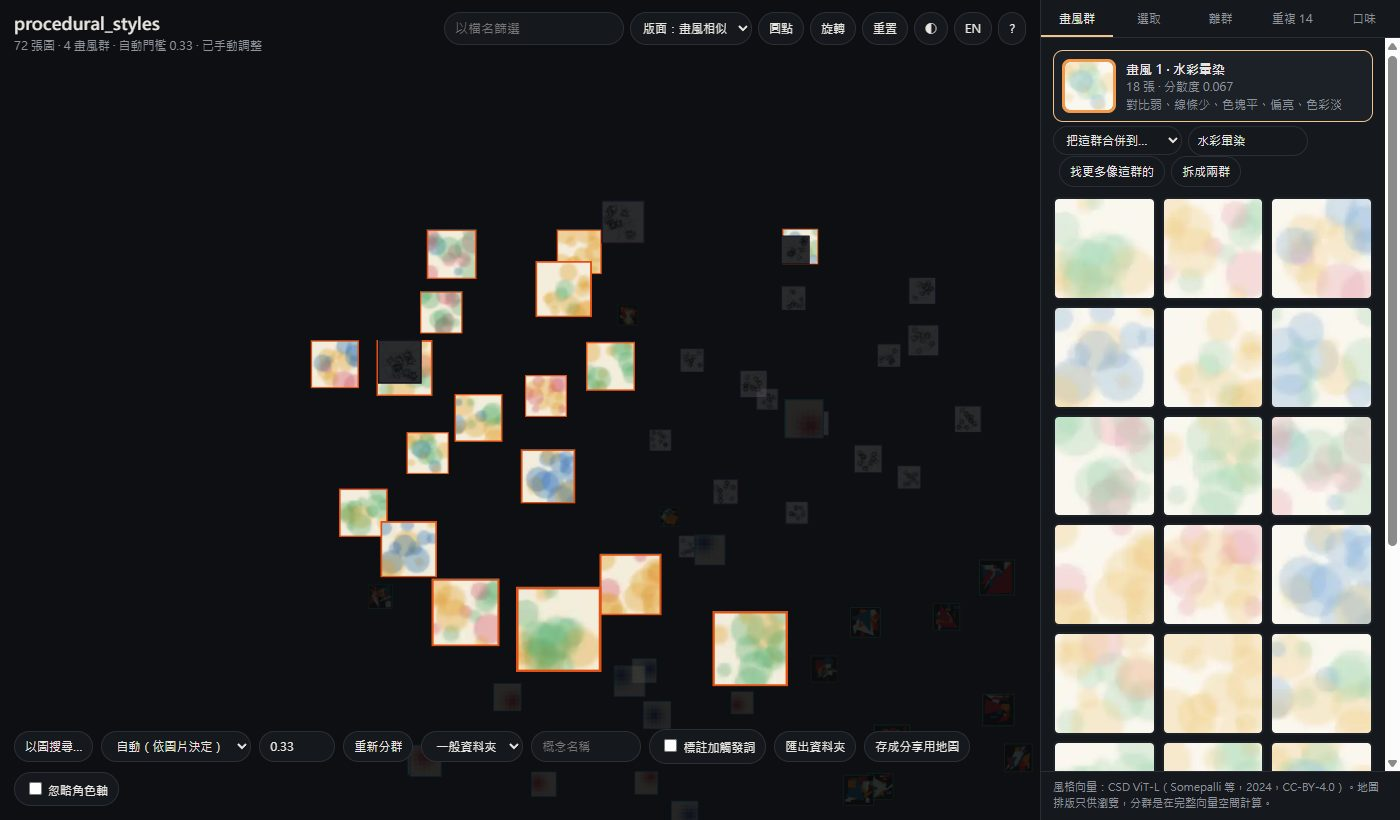
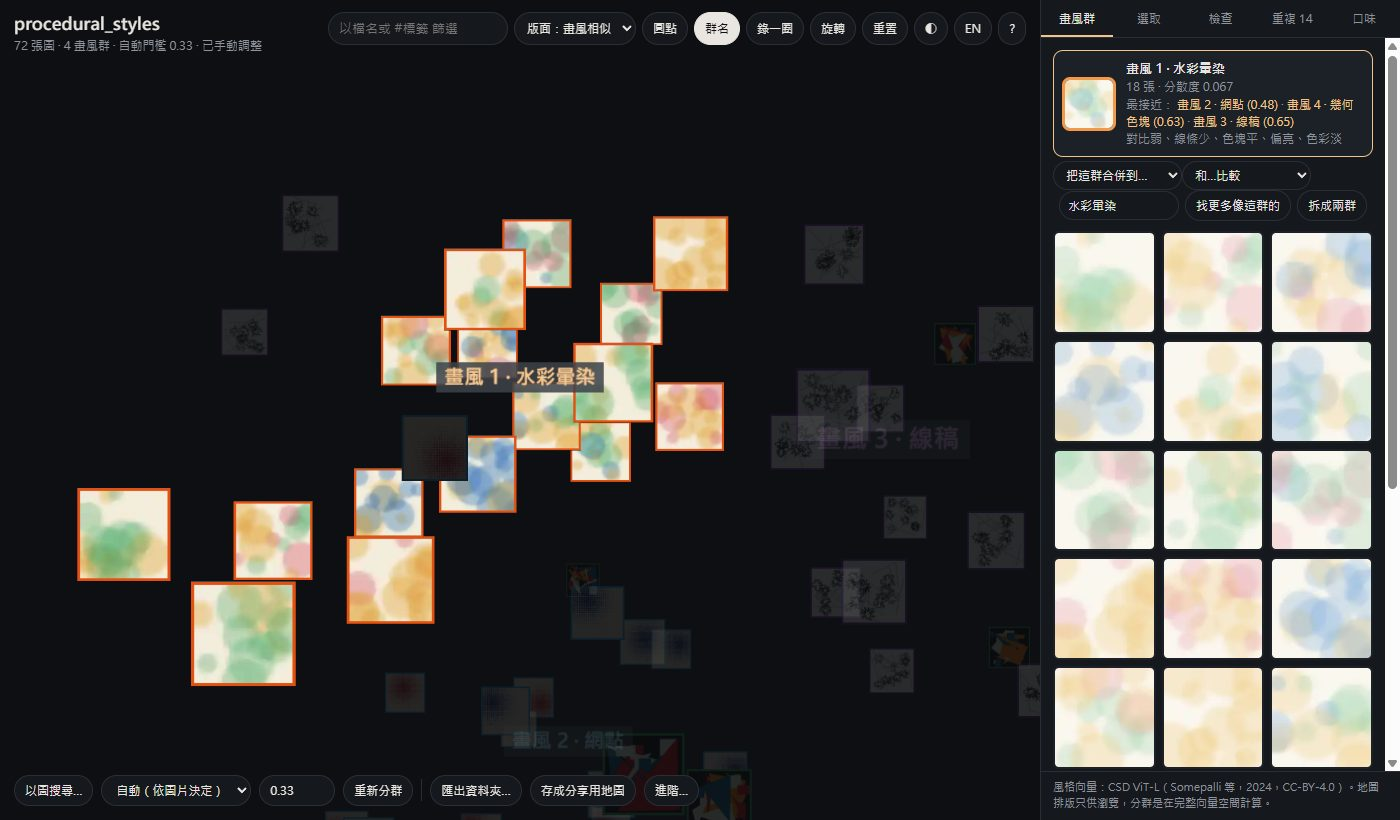
feat(ui): a calmer bottom bar (export and advanced options in panels), Select these in Check, clearer labels; new screenshots

diff --git a/src/styleatlas/templates/map_i18n.js b/src/styleatlas/templates/map_i18n.js
@@ -26,13 +26,16 @@ const T = {
     exclude: "Exclude from export (X)", included: "Excluded - undo (X)",
     excludedList: "Excluded by you ({n}) - exported to _excluded",
     compareWith: "Compare with…", compareTitle: "{a} compared with {b}",
+    selectThese: "Select these", tipTheme: "Dark or light",
+    exportOpen: "Export folders…", exportGo: "Export now", exportTitle: "Export:",
+    moreOpen: "More…", tipMore: "Ignore the character axis, and a reference folder for the originality axis",
     stripTags: "remove tags", tipStrip: "Optional: caption tags to leave out of the exported copies, comma-separated (e.g. sketch, monochrome). Your own captions are never changed.",
     fitLine: "{k} of {n} dropped images fall inside a style group of this folder",
     fitYes: "mostly this folder's style", fitSome: "partly", fitNo: "mostly unlike this folder",
     fitOne: "inside its range", fitNotOne: "outside its range",
     fitNote: "Inside = as close to the group as 90% of its own images. One artist's held-out works landed inside 69% of the time, other artists' 15%: read the share, not single images.",
     findLive: "filter by name, or #tag", tagHits: "{n} images have a caption tag with \"{t}\".",
-    marked: "{n} selected", markExclude: "Exclude all", markInclude: "Un-exclude all", markClear: "Clear",
+    marked: "{n} selected", markExclude: "Exclude these {n}", markInclude: "Restore these {n}", markClear: "Clear",
     markExcluded: "Excluded {n}.", markIncluded: "Un-excluded {n}.",
     shiftKeys: "Shift + click / drag", keyMark: "select several images, then exclude or move them at once",
     maxPerGroup: "max per style", trimmedNote: "{n} beyond the cap went to _trimmed.",
@@ -113,16 +116,19 @@ const T = {
     exclude: "匯出時排除 (X)", included: "已排除，取消 (X)",
     excludedList: "你排除的圖（{n}）：匯出時放到 _excluded",
     compareWith: "和…比較", compareTitle: "{a} 和 {b} 比較",
-    stripTags: "移除標籤", tipStrip: "選填：匯出的標註裡要拿掉的標籤，用逗號分隔（例如 sketch, monochrome）。原本的標註不會被改。",
+    selectThese: "選取這些", tipTheme: "深色／淺色",
+    exportOpen: "匯出資料夾…", exportGo: "開始匯出", exportTitle: "匯出：",
+    moreOpen: "進階…", tipMore: "忽略角色軸，以及原創度用的參考資料夾",
+    stripTags: "要移除的標籤", tipStrip: "選填：匯出的標註裡要拿掉的標籤，用逗號分隔（例如 sketch, monochrome）。原本的標註不會被改。",
     fitLine: "拖進來的 {n} 張裡，有 {k} 張落在這個資料夾某一群的範圍內",
     fitYes: "大致是這個資料夾的畫風", fitSome: "部分像", fitNo: "大多不像這個資料夾",
     fitOne: "在範圍內", fitNotOne: "在範圍外",
     fitNote: "「範圍內」＝和那群中心的距離，不超過那群 90% 成員的距離。實測同一畫師沒用到的作品有 69% 落在範圍內，其他畫師只有 15%；請看整批的比例，單張不準。",
     findLive: "以檔名或 #標籤 篩選", tagHits: "{n} 張圖的標註裡有含「{t}」的標籤。",
-    marked: "已選 {n} 張", markExclude: "全部排除", markInclude: "全部取消排除", markClear: "清除選取",
+    marked: "已選 {n} 張", markExclude: "排除這 {n} 張", markInclude: "恢復這 {n} 張", markClear: "清除選取",
     markExcluded: "已排除 {n} 張。", markIncluded: "已取消排除 {n} 張。",
     shiftKeys: "Shift + 點／拖曳", keyMark: "選多張圖，再一次排除或移到別群",
-    maxPerGroup: "每群上限", trimmedNote: "超過上限的 {n} 張放到 _trimmed。",
+    maxPerGroup: "每群最多幾張", trimmedNote: "超過上限的 {n} 張放到 _trimmed。",
     tipMax: "選填：每群最多保留幾張，會挑能涵蓋整群的（LoRA 常用 15～50 張）；其餘放到 _trimmed",
     nearGroups: "最接近：", nearTip: "打開那一群（數字是兩群中心的畫風距離）",
     manyGroups: "分出很多小群。如果這是同一位畫師的資料夾，可以把左下的分群選單改成「中」或「時期」，再按重新分群。",
@@ -168,7 +174,7 @@ const T = {
     neutral: "忽略角色軸", neutralBusy: "重新計算中…",
     oneGroup: "所有圖都在同一群：把左下的分群選單改成「細」或「時期（單一畫師）」，再按重新分群。",
     undo: "復原", plainFolders: "一般資料夾",
-    smallGroups: "有 {n} 個群不足 3 張，已放進未分群。", conceptName: "概念名稱", triggerCaptions: "標註加觸發詞",
+    smallGroups: "有 {n} 個群不足 3 張，已放進未分群。", conceptName: "LoRA 名稱（資料夾名）", triggerCaptions: "標註加觸發詞",
     nameGroup: "取名（Enter）", restored: "已還原上次的分群、手動調整與名稱（按重新分群可重來）。",
     rateNext: "評下一張最有用的圖", ratingHint: "評分模式：按 L 或 D，自動跳下一張（Esc 結束）",
     allRated: "全部都評過了。",

diff --git a/src/styleatlas/templates/map_app.js b/src/styleatlas/templates/map_app.js
@@ -144,9 +144,11 @@ function showMarks() {
   const items = () => [...MARKED];
   const button = (key, fn) => { const b = document.createElement("button"); b.textContent = t(key); b.addEventListener("click", fn); return b; };
   const count = document.createElement("span"); count.textContent = t("marked").replace("{n}", MARKED.size);
-  bar.replaceChildren(count,
-    button("markExclude", () => batchExclude(items(), true)),
-    button("markInclude", () => batchExclude(items(), false)),
+  const ex = button("markExclude", () => batchExclude(items(), true));
+  const inc = button("markInclude", () => batchExclude(items(), false));
+  ex.textContent = t("markExclude").replace("{n}", MARKED.size);
+  inc.textContent = t("markInclude").replace("{n}", MARKED.size);
+  bar.replaceChildren(count, ex, inc,
     groupSelect(t("moveTo"), null, true, (to) => editPost("api/move", { items: items(), to })),
     button("markClear", () => { MARKED = new Set(); showMarks(); }));
 }
@@ -369,8 +371,23 @@ function setupReference() {
   }
 }
 
+function setupPanels() {  // export options and the advanced switches open above the bar
+  const pairs = [["exportOpen", "exportPanel"], ["moreOpen", "morePanel"]];
+  pairs.forEach(([button, panel]) => {
+    $(button).addEventListener("click", () => {
+      const open = $(panel).hidden;
+      pairs.forEach(([b, p]) => { $(p).hidden = true; $(b).classList.remove("on"); });
+      $(panel).hidden = !open; $(button).classList.toggle("on", open);
+    });
+  });
+  if ((DATA.live.space || "plain") !== "plain" || DATA.reference) {  // a switch is on: show it
+    $("morePanel").hidden = false; $("moreOpen").classList.add("on");
+  }
+}
+
 function setupLive() {
   setupUndo();
+  setupPanels();
   setupMarking();
   setupReference();
   $("neutral").checked = (DATA.live.space || "plain") !== "plain";
@@ -441,7 +458,9 @@ function setupLive() {
 function liveText() {
   if (!DATA.live) return;
   $("pickBtn").textContent = t("searchImg"); $("regroup").textContent = t("regroup");
-  $("export").textContent = t("export"); $("drop").textContent = t("drop");
+  $("export").textContent = t("exportGo"); $("exportOpen").textContent = t("exportOpen");
+  $("exportTitle").textContent = t("exportTitle"); $("moreOpen").textContent = t("moreOpen");
+  $("drop").textContent = t("drop");
   $("saveMap").textContent = t("saveMap");
   $("undo").textContent = t("undo");
   $("expLayout").options[0].textContent = t("plainFolders");
@@ -464,7 +483,7 @@ function liveText() {
   $("gran").value = cur && cur !== "custom" ? cur : initial;
   $("periods").title = t("periods");
   showPeriods($("gran").value === "period");
-  const tips = { expMax: "tipMax", expStrip: "tipStrip", pickBtn: "tipSearch", gran: "tipGran", thr: "tipThr", regroup: "tipRegroup", undo: "tipUndo",
+  const tips = { exportOpen: "tipExport", moreOpen: "tipMore", expMax: "tipMax", expStrip: "tipStrip", pickBtn: "tipSearch", gran: "tipGran", thr: "tipThr", regroup: "tipRegroup", undo: "tipUndo",
     expLayout: "tipLayout", expName: "tipName", expTrigWrap: "tipTrig", export: "tipExport",
     saveMap: "tipSaveMap", neutralWrap: "tipNeutral" };
   Object.entries(tips).forEach(([id, key]) => { $(id).title = t(key); });

diff --git a/src/styleatlas/templates/map.html b/src/styleatlas/templates/map.html
@@ -36,17 +36,25 @@
       <input id="periods" type="number" min="2" max="8" step="1" hidden>
       <button id="regroup"></button>
       <button id="undo" hidden></button>
-      <select id="expLayout"><option value="plain"></option><option value="kohya">kohya</option></select>
-      <input id="expName" type="text">
-      <input id="expMax" type="number" min="1" step="1">
-      <input id="expStrip" type="text">
-      <label id="expTrigWrap" class="chip"><input id="expTrig" type="checkbox"> <span></span></label>
-      <button id="export"></button>
+      <span class="sep"></span>
+      <button id="exportOpen"></button>
       <button id="saveMap"></button>
-      <label id="neutralWrap" class="chip"><input id="neutral" type="checkbox"> <span></span></label>
-      <input id="refPath" type="text">
-      <button id="refLoad"></button>
+      <button id="moreOpen"></button>
       <span id="status"></span>
+      <div id="exportPanel" class="panel" hidden>
+        <b id="exportTitle"></b>
+        <select id="expLayout"><option value="plain"></option><option value="kohya">kohya</option></select>
+        <input id="expName" type="text">
+        <input id="expMax" type="number" min="1" step="1">
+        <input id="expStrip" type="text">
+        <label id="expTrigWrap" class="chip"><input id="expTrig" type="checkbox"> <span></span></label>
+        <button id="export" class="primary"></button>
+      </div>
+      <div id="morePanel" class="panel" hidden>
+        <label id="neutralWrap" class="chip"><input id="neutral" type="checkbox"> <span></span></label>
+        <input id="refPath" type="text">
+        <button id="refLoad"></button>
+      </div>
     </div>
     <div id="drop"></div>
     <div id="tip"><img alt=""><div class="cap"></div></div>

diff --git a/src/styleatlas/templates/map.css b/src/styleatlas/templates/map.css
@@ -39,6 +39,18 @@
   #status { color: var(--muted); font-size: 12px; background: var(--panel); border-radius: 999px;
     padding: 5px 10px; border: 1px solid var(--line); }
   #status:empty { display: none; }
+  #live .panel { order: -1; flex-basis: 100%; display: flex; gap: 8px; flex-wrap: wrap;
+    align-items: center; background: color-mix(in srgb, var(--panel) 94%, transparent);
+    border: 1px solid var(--line); border-radius: 14px; padding: 8px 10px; }
+  #live .panel[hidden] { display: none; }
+  #live .panel b { font-size: 12px; color: var(--muted); font-weight: 600; margin-right: 2px; }
+  #live .sep { width: 1px; height: 22px; background: var(--line); }
+  #live .panel input[type=text] { width: 150px; }
+  #live .panel input[type=number] { width: 110px; }
+  #live button.primary { border-color: var(--accent); color: var(--accent); }
+  #exportOpen.on, #moreOpen.on { border-color: var(--accent); }
+  #title { background: color-mix(in srgb, var(--bg) 72%, transparent); border-radius: 10px;
+    padding: 4px 8px; margin: -4px 0 0 -8px; }
   #markBar { position: absolute; top: 96px; left: 50%; transform: translateX(-50%); z-index: 5;
     display: flex; gap: 6px; align-items: center; background: var(--panel); color: var(--ink);
     border: 1px solid var(--accent); border-radius: 999px; padding: 6px 10px; font-size: 12px; }

diff --git a/src/styleatlas/templates/map.js b/src/styleatlas/templates/map.js
@@ -429,8 +429,11 @@ function checkSection() {
     sub.textContent = `${t("chk_" + k).replace("{n}", CHECK.min_side)}: ${many ? t("checkAll").replace("{n}", list.length) : list.length}`;
     box.append(sub);
     if (!many) {
+      const pick = document.createElement("button"); pick.textContent = t("selectThese");
+      pick.style.cssText = "margin:2px 0 4px";
+      pick.addEventListener("click", () => { MARKED = new Set(list); showMarks(); });  // then exclude at once
       const g = document.createElement("div"); g.className = "grid"; list.slice(0, 60).forEach((i) => g.append(thumb(i)));
-      box.append(g);
+      box.append(pick, g);
     }
   });
   return box;
@@ -497,7 +500,7 @@ function applyText() {
   $("find").placeholder = t(DATA.live ? "findLive" : "find");
   $("mode").textContent = mode === "thumbs" ? t("dots") : t("thumbs");
   $("spin").textContent = t("spin"); $("home").textContent = t("home"); $("names").textContent = t("names");
-  $("mode").title = t("tipMode"); $("names").title = t("tipNames"); $("home").title = t("tipHome");
+  $("theme").title = t("tipTheme"); $("mode").title = t("tipMode"); $("names").title = t("tipNames"); $("home").title = t("tipHome");
   if (!recordingNow) $("rec").textContent = t("rec");
   $("rec").title = t("tipRec");
   $("layoutSel").title = t("tipLayoutSel");

diff --git a/src/styleatlas/templates/map_layout.js b/src/styleatlas/templates/map_layout.js
@@ -107,7 +107,7 @@ function nameSprite(full, color) {
   const cv = document.createElement("canvas"); const g = cv.getContext("2d");
   const font = "600 30px system-ui, sans-serif"; g.font = font;
   cv.width = Math.ceil(g.measureText(text).width) + 24; cv.height = 46;
-  g.font = font; g.fillStyle = "rgba(12,14,18,0.72)"; g.fillRect(0, 0, cv.width, cv.height);
+  g.font = font; g.fillStyle = "rgba(12,14,18,0.86)"; g.fillRect(0, 0, cv.width, cv.height);
   g.fillStyle = color; g.fillText(text, 12, 33);
   const sp = new THREE.Sprite(new THREE.SpriteMaterial({ map: new THREE.CanvasTexture(cv), depthTest: false, transparent: true }));
   const h = 0.11; sp.scale.set(h * cv.width / cv.height, h, 1); sp.renderOrder = 10;

diff --git a/README.md b/README.md
@@ -105,12 +105,12 @@ dataset_config.toml   ← kohya sd-scripts 的資料集設定（`--dataset_confi
 ```
 
 - 每群的 repeats 會讓「張數 × repeats」接近 100。也可以用 `--repeats 10` 固定。
-- 某群圖太多時，加 `--max-per-group 40`（網頁：匯出列的「每群上限」）只保留 40 張，會挑能涵蓋整群變化的那些（從最典型的一張開始，每次挑和已選的最不像的一張），其餘放到 `_trimmed\`。repeats 會依保留的張數重算。
+- 某群圖太多時，加 `--max-per-group 40`（網頁：「匯出資料夾…」裡的「每群最多幾張」）只保留 40 張，會挑能涵蓋整群變化的那些（從最典型的一張開始，每次挑和已選的最不像的一張），其餘放到 `_trimmed\`。repeats 會依保留的張數重算。
 - 想在同一個 LoRA 裡用不同觸發詞叫出不同畫風，可以加 `--trigger-captions`：
   - 匯出的標註開頭會自動加上該群名稱，例如 `artistX_style01, `；
   - 原始標註不會被改。
   - 完整流程見 [docs/LORA_GUIDE.md](docs/LORA_GUIDE.md)。
-- 想把描述畫風本身的標籤（例如 `sketch`、`monochrome`）從匯出的標註拿掉，讓觸發詞去學這個畫風：加 `--strip-tags "sketch, monochrome"`（網頁：匯出列的「移除標籤」）。只比對完整標籤，原本的標註不會被改。
+- 想把描述畫風本身的標籤（例如 `sketch`、`monochrome`）從匯出的標註拿掉，讓觸發詞去學這個畫風：加 `--strip-tags "sketch, monochrome"`（網頁：「匯出資料夾…」裡的「要移除的標籤」）。只比對完整標籤，原本的標註不會被改。
 
   ```bat
   style-atlas cluster "D:\lora\artistX" --layout kohya --name artistX --dedupe --drop-outliers 5 --export copy --trigger-captions
@@ -166,7 +166,7 @@ style-atlas taste train --like "D:\喜歡的圖" --dislike "D:\不喜歡的圖" 
 style-atlas taste score "D:\new_batch" --model "D:\my_taste.npz"
 ```
 
-**同樣的角色出現在很多種畫風裡**時（例如用固定角色測試不同畫師組合），請加 `--ignore-characters`，或在網頁介面勾選「忽略角色軸」。畫風特徵會被角色外觀（髮色、服裝）強烈拉走，不修正時，最接近的圖常常是「同角色、別的畫風」。
+**同樣的角色出現在很多種畫風裡**時（例如用固定角色測試不同畫師組合），請加 `--ignore-characters`，或在網頁介面的「進階…」勾選「忽略角色軸」。畫風特徵會被角色外觀（髮色、服裝）強烈拉走，不修正時，最接近的圖常常是「同角色、別的畫風」。
 - 它會自動從圖裡找出角色（不需要標註），再拿掉角色造成的差異。角色越多越有用：4 個角色時，以圖找圖找對畫風的比例是 70%，舊方法 `--neutralize 1` 是 58%。
 - 這主要改善**以圖找圖**。同一個模型、固定角色的算圖，畫風差異通常很小，自動分群多半只會得到一群；這類資料夾請以「以圖找圖」為主，或用 `--k` 直接指定群數。
 - **混了不同畫師時不要開**：那時角色差異和畫風差異分不開，分群會壞掉。
@@ -184,7 +184,7 @@ style-atlas taste score "D:\new_batch" --model "D:\my_taste.npz"
 - 「檢查」分頁：按「開始檢查」會列出太小的圖、極端長寬比、混在彩色圖裡的黑白圖、沒有標註或標註是空的圖、動圖（和 `audit` 指令相同，不用打指令）；下面是最不合群的圖。「重複」分頁列出近重複圖組。
 - 右上角可以把「版面」從「畫風相似」切到「量化軸」。切換後，三個軸可以各自選一種指標，縮圖會移動到對應位置。可選的指標有：
   - 口味分數：用網頁介面評過分之後才有。
-  - 離參考集距離（原創度）：要先指定已知畫風的資料夾（例如畫師作品或論壇配方）。在網頁左下第二排填路徑、按「載入參考」即可（第一次會嵌入裡面的圖），或啟動時加 `--reference 資料夾`。
+  - 離參考集距離（原創度）：要先指定已知畫風的資料夾（例如畫師作品或論壇配方）。在網頁的「進階…」填路徑、按「載入參考」即可（第一次會嵌入裡面的圖），或啟動時加 `--reference 資料夾`。
   - 時間。
   - 離群度。
   - 外觀量測：亮度、對比、鮮豔度、冷暖、線條量、平塗度（見下一節）。例如 X 選冷暖、Y 選線條量、Z 選鮮豔度，就能看到整個資料夾在這三個面向上怎麼分布。
@@ -196,7 +196,7 @@ style-atlas taste score "D:\new_batch" --model "D:\my_taste.npz"
   - 拖一張圖進畫面就能以圖搜尋。一次拖多張同一種畫風的圖，會當成同一種畫風一起搜尋（3 張以上時用它們訓練的小模型排序）。
   - 一次拖多張時，還會告訴你這批圖有幾張「落在這個資料夾某一群的範圍內」，例如拿 LoRA 算出來的圖檢查像不像訓練集，或新找到的圖該不該加進來。請看整批的比例：實測同一畫師沒用到的作品有 69% 落在範圍內，其他畫師只有 15%。
   - 畫風漸變：選一張圖按「畫風漸變：從這張開始」，再選另一張按「畫風漸變：到這張」，會列出在畫風上從前一張漸變到後一張的一串圖。適合找兩種畫風之間的過渡風格。
-  - 調門檻後重新分群、一鍵匯出資料夾。匯出時可以選一般資料夾或 kohya 格式、填概念名稱、勾選「標註加觸發詞」。
+  - 調門檻後重新分群。按「匯出資料夾…」會在下方打開匯出選項：一般資料夾或 kohya 格式、LoRA 名稱、每群最多幾張、要移除的標籤、「標註加觸發詞」，再按「開始匯出」。「忽略角色軸」和參考資料夾放在「進階…」裡。
   - 按「匯出時排除」（鍵盤 X）手動剔除不要的圖，清單會存檔，匯出時放到 `_excluded\`。
   - 一次處理很多張：按住 Shift 點圖（地圖或清單裡都可以），或按住 Shift 在地圖上拖一個框，選好後用上方的「全部排除」或「移到其他群…」一次完成；移動算一步，可以復原。Esc 清除選取。
   - 資料夾裡混了別的畫師的圖時：先把看到的兩三張按 X 排除，再到「檢查」分頁的排除清單按「找更多像這些的」，其餘的通常都會排在最前面（實測：3 張當範例時，前 30 名找回 98%）。
@@ -399,7 +399,7 @@ The output goes to `DIR_style_atlas/folders/`, next to the dataset and never ins
   folder and its repeats; set the resolution and batch size for your model.
 - `_duplicates/`, `_outliers/`, `_unassigned/` and `_excluded/` (images you excluded with X in
   the web app). Kohya skips these because they lack a number prefix.
-- With `--max-per-group N` (web: "max per style"), a larger style keeps N images that cover
+- With `--max-per-group N` (web: "Export folders…", "max per style"), a larger style keeps N images that cover
   it (farthest-point sampling from its most central image); the rest go to `_trimmed/`, and
   repeats follow the kept count.
 - `clusters.json`, which lists each group's characteristic caption tags.
@@ -442,7 +442,7 @@ Common options:
   originality measure, the distance from each image to its closest reference. The map's
   "measures" layout can then put taste, originality, time and atypicality on the X / Y / Z axes,
   along with the six look measures (see "Look measures" below). In the web app the reference
-  folder can also be loaded (or cleared) from the box at the bottom left.
+  folder can also be loaded (or cleared) under "More…" at the bottom.
 - `--ignore-characters` (cluster, map, serve, search): use it when the same characters appear in
   many styles. It finds the characters from the CSD content vectors (no labels needed) and moves
   each character's style vectors to a shared centre. On 16 Anima recipes x 4 characters,

diff --git a/docs/LORA_GUIDE.md b/docs/LORA_GUIDE.md
@@ -79,7 +79,7 @@ style-atlas cluster "D:\lora\artistX" --layout kohya --name artistX --dedupe --d
 ## 5. 要知道的限制
 
 - 2～5 位畫師混在一起時，分群和畫師的吻合度約 ARI 0.5；畫師越多越低（50 位時約 0.38）。同一畫師拆時期時，「時期」（分 3 段）和發表時間的吻合度明顯比預設的自動門檻好，但整體仍偏弱（13 位測試畫師的平均 AMI 約 0.12）；作品少時分段結果不太穩定。所以分群是**初步整理**，請在地圖上確認。
-- 同一個角色出現在很多畫風時，畫風向量會被角色外觀拉走。遇到這種收藏可以加 `--ignore-characters`（或在網頁勾選「忽略角色軸」）；但不要用在混了不同畫師的資料夾。
+- 同一個角色出現在很多畫風時，畫風向量會被角色外觀拉走。遇到這種收藏可以加 `--ignore-characters`（或在網頁「進階…」勾選「忽略角色軸」）；但不要用在混了不同畫師的資料夾。
 - 近重複門檻刻意設得保守（0.95）。在 0.92～0.95 之間，常常是同角色換了姿勢的不同圖，對訓練來說那是有效的圖。
 
 詳細數字見 [BENCHMARKS.md](BENCHMARKS.md)。

diff --git a/CHANGELOG.md b/CHANGELOG.md
@@ -1,5 +1,16 @@
 # Changelog
 
+## Unreleased
+
+- **A calmer bottom bar** (a Sonnet review of screenshots at 1366x768): one row with search,
+  grouping, "Export folders…", "Save shareable map" and "More…". The export options open in a
+  panel above it, ending in "Export now"; the character-axis switch and the reference folder
+  are under "More…" (shown open when one of them is on).
+- Each finding in the Check tab has "Select these", so the images can be excluded or moved at
+  once; the selection bar now says "Exclude these N" / "Restore these N".
+- Clearer export labels ("LoRA name (folder name)", "max per style", "tags to remove"), more
+  solid group-name labels on the map, a backdrop behind the title, a tooltip on the theme button.
+
 ## 0.18.0 - 2026-10-10
 
 - Fixes from a Sonnet review of this release:
